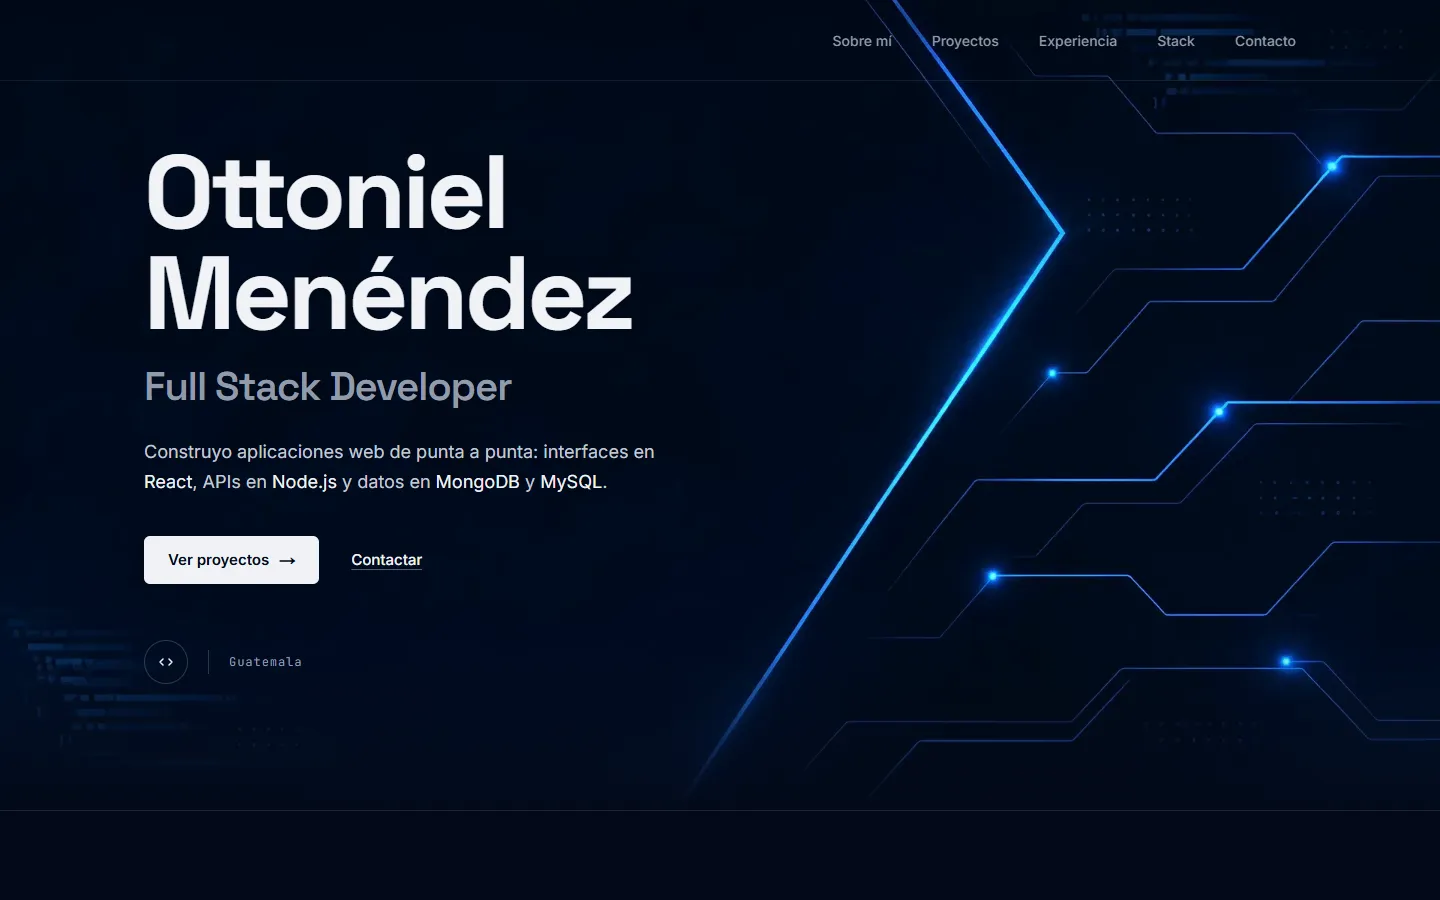
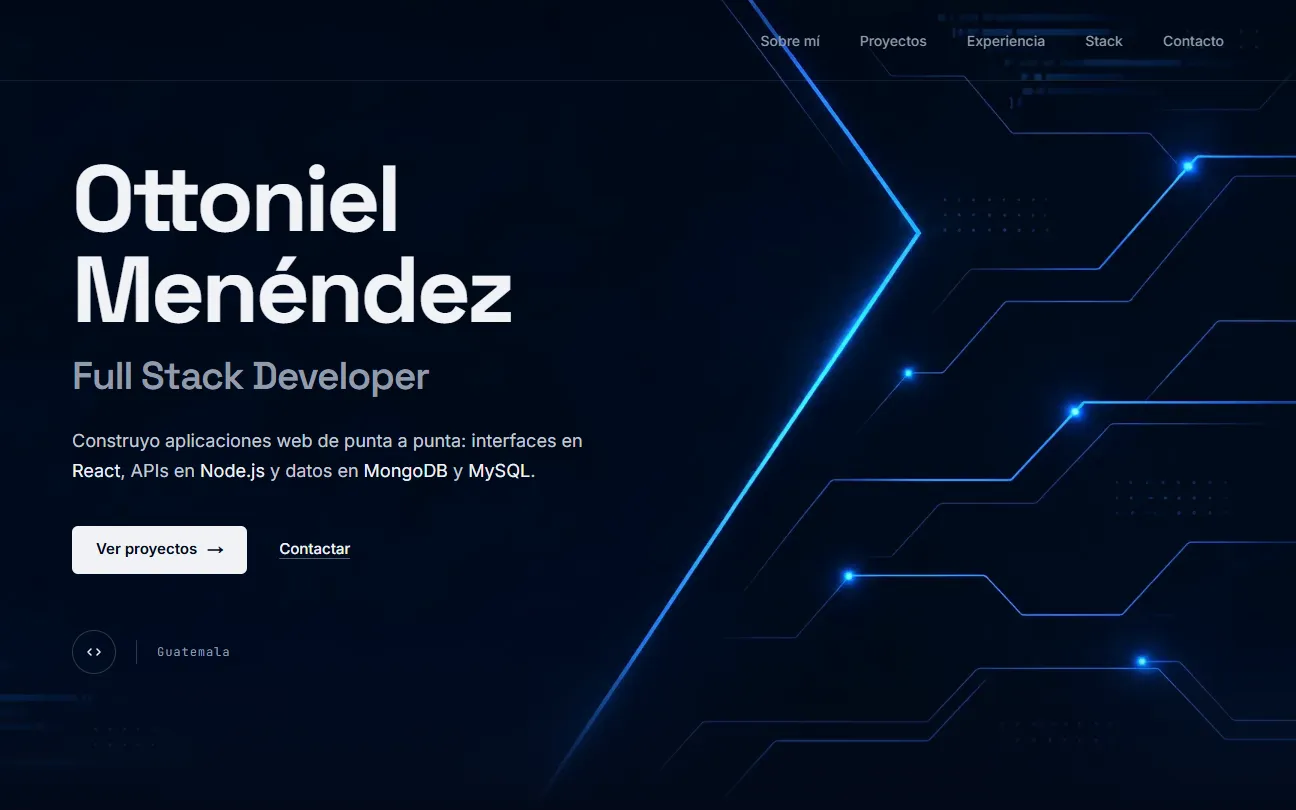
feat: agregar enlace para saltar al contenido y recapturar el hero a 1296×810

diff --git a/src/components/Nav.tsx b/src/components/Nav.tsx
@@ -1,32 +1,41 @@
-import { name, navLinks } from "@/content/site";
+import { name, navLinks, skipLink } from "@/content/site";
 import MobileMenu from "./MobileMenu";
 import NavBrand from "./NavBrand";
 
 // `overHero`: la página empieza con el hero bajo la barra (la home). En la 404 va sin él y el nombre se ve siempre.
 export default function Nav({ overHero = false }: { overHero?: boolean }) {
   return (
-    <header
-      data-over-hero={overHero || undefined}
-      className="fixed inset-x-0 top-0 z-50 border-b border-white/8 bg-bg transition-colors duration-200 over-hero:bg-transparent motion-reduce:transition-none"
-    >
-      <div className="site-container flex h-16 items-center justify-between md:h-20">
-        <NavBrand name={name} />
-        <nav aria-label="Principal" className="hidden md:block">
-          <ul className="flex gap-10">
-            {navLinks.map((link) => (
-              <li key={link.href}>
-                <a
-                  href={link.href}
-                  className="tap-target text-sm font-medium text-text-muted transition-colors duration-200 hover:text-text motion-reduce:transition-none"
-                >
-                  {link.label}
-                </a>
-              </li>
-            ))}
-          </ul>
-        </nav>
-        <MobileMenu />
-      </div>
-    </header>
+    <>
+      {/* Primer elemento enfocable: fuera de pantalla hasta recibir foco; entonces queda sobre la barra. */}
+      <a
+        href={skipLink.href}
+        className="fixed top-4 left-4 z-60 -translate-y-[200%] rounded-[6px] bg-text px-5 py-3 text-[15px] font-semibold text-bg focus:translate-y-0"
+      >
+        {skipLink.label}
+      </a>
+      <header
+        data-over-hero={overHero || undefined}
+        className="fixed inset-x-0 top-0 z-50 border-b border-white/8 bg-bg transition-colors duration-200 over-hero:bg-transparent motion-reduce:transition-none"
+      >
+        <div className="site-container flex h-16 items-center justify-between md:h-20">
+          <NavBrand name={name} />
+          <nav aria-label="Principal" className="hidden md:block">
+            <ul className="flex gap-10">
+              {navLinks.map((link) => (
+                <li key={link.href}>
+                  <a
+                    href={link.href}
+                    className="tap-target text-sm font-medium text-text-muted transition-colors duration-200 hover:text-text motion-reduce:transition-none"
+                  >
+                    {link.label}
+                  </a>
+                </li>
+              ))}
+            </ul>
+          </nav>
+          <MobileMenu />
+        </div>
+      </header>
+    </>
   );
 }

diff --git a/src/app/not-found.tsx b/src/app/not-found.tsx
@@ -28,7 +28,7 @@ export default function NotFound() {
           className="absolute inset-0 -z-10 bg-linear-to-b from-bg/50 via-bg/75 via-45% to-bg to-75% md:bg-linear-to-r md:from-bg md:from-30% md:via-bg/60 md:via-65% md:to-bg/20 md:to-100%"
         />
 
-        <main className="site-container flex flex-1 flex-col justify-end pt-10 pb-12 md:justify-center md:pt-[72px] md:pb-24">
+        <main id="contenido" tabIndex={-1} className="site-container outline-none flex flex-1 flex-col justify-end pt-10 pb-12 md:justify-center md:pt-[72px] md:pb-24">
           <p
             aria-hidden="true"
             className="text-outline font-display text-[132px] leading-[0.8] font-semibold tracking-[-0.04em] md:text-[clamp(140px,17vw,240px)]"

diff --git a/src/content/site.ts b/src/content/site.ts
@@ -14,6 +14,9 @@ export const social = {
   email: "ottonielm64@gmail.com",
 };
 
+// El destino es el <main> de cada página.
+export const skipLink = { label: "Saltar al contenido", href: "#contenido" };
+
 export const navLinks = [
   { label: "Sobre mí", href: "/#sobre-mi" },
   { label: "Proyectos", href: "/#proyectos" },

diff --git a/src/app/page.tsx b/src/app/page.tsx
@@ -11,7 +11,7 @@ export default function Home() {
   return (
     <>
       <Nav overHero />
-      <main>
+      <main id="contenido" tabIndex={-1} className="outline-none">
         <Hero />
         <About />
         <Projects />

diff --git a/docs/diseno.md b/docs/diseno.md
@@ -153,7 +153,7 @@ Estructura de cada fila (≥ 1024 px): dos columnas, medio a la izquierda (≈ 5
 
 **Columna de medio:**
 - Echo: el tráiler vertical (4:5) dentro del marco 16:10 con fondo `#000` y `object-fit: contain`. El fondo del juego es negro, así que las franjas laterales no se notan. `<video muted loop playsinline preload="none" poster="echo_poster.webp">` con `echo_preview.mp4`. Se reproduce solo mientras está en pantalla (IntersectionObserver) y se pausa al salir; con `prefers-reduced-motion: reduce` se queda en el póster. Sin controles ni sonido; el video es decorativo (`aria-hidden="true"`) porque el texto de la fila ya lo describe. En móvil, el marco pasa a 4:5 y el video ocupa todo el ancho.
-- Este portafolio: miniatura 16:10, radio 6, borde `line`, con la captura del hero del sitio construido (`portafolio.webp`, 1440 × 900; ver "Assets").
+- Este portafolio: miniatura 16:10, radio 6, borde `line`, con la captura del hero del sitio construido (`portafolio.webp`, 1296 × 810; ver "Assets").
 - En ambos, una etiqueta mono arriba a la izquierda sobre fondo `rgba(3,10,26,.85)`, radio 3, p. ej. "01 / ECHO".
 - Casos: caja con borde `line` y fondo `rgba(255,255,255,.02)` (único "contenedor" permitido) con el diagrama centrado, padding 56 px 48 px, alto mínimo 420 px, etiqueta superior "03 / PORTAL 360" y al pie "Diagrama simplificado, sin datos del cliente" en mono 10 px mayúsculas `text-muted`.
 
@@ -185,6 +185,7 @@ HTML y CSS, no imágenes (accesibles y editables).
 - Un solo `h1`. HTML semántico: `header`, `nav`, `section` con `id`, `article`, `dl`.
 - Foco visible: contorno blanco de 2 px con desplazamiento de 4 px en enlaces y botones.
 - Áreas táctiles de al menos 44 px (botón circular, hamburguesa) y 48 px en botones de texto. Los enlaces de texto (nav, pie, menú móvil, "↗") amplían su área de toque a 44 px con un pseudoelemento invisible, sin cambiar su caja ni su aspecto.
+- Enlace "Saltar al contenido": primer elemento enfocable de la página (antes de la nav), con destino el `main` (`id="contenido"`, `tabIndex={-1}` para que reciba el foco). Oculto hasta recibir foco; con foco aparece arriba a la izquierda, fijo a 16 px del borde, por encima de la nav (`z-index` mayor), con el estilo del botón primario (fondo `text`, texto `bg`, radio 6, Inter 15 px peso 600, padding `12px 20px`) y el contorno de foco blanco de 2 px con 4 px de separación. También en la 404.
 - Iconos decorativos con `aria-hidden="true"`. La foto lleva `alt` ("Retrato de Ottoniel Menéndez"); las miniaturas decorativas, `alt=""`.
 - Movimiento: solo las transiciones de hover (≤ 250 ms), el video del hero y el tráiler de Echo; los dos videos respetan `prefers-reduced-motion`.
 - Los números grandes de proyecto son decorativos (`aria-hidden="true"`).
@@ -199,12 +200,12 @@ HTML y CSS, no imágenes (accesibles y editables).
 | `echo.webp` | Versión 16:10 del póster (1600×1000) para usos estáticos, como una futura imagen `og` del proyecto |
 | `cover.webp` | Respaldo para un proyecto nuevo sin captura |
 | `bg.webp` | Sin uso en esta versión; se conserva en el repo por si hace falta |
-| `portafolio.webp` | Captura del hero para la fila "Este portafolio" (1440×900) |
+| `portafolio.webp` | Captura del hero para la fila "Este portafolio" (1296×810, 16:10) |
 | `og.jpg` | Imagen para redes de 1200×630: fondo `hero_poster.webp`, nombre y cargo en Space Grotesk, sin la palabra "Portafolio". JPG estático: `opengraph-image` de Next no pinta el fondo WebP y exporta el archivo sin extensión |
 
 **Imagen `og` (1200 × 630):** fondo `hero_poster.webp` a cubrir, `object-position: right center`, con un degradado de izquierda a derecha de `bg` (hasta el 35 %) a `rgba(3,10,26,.2)`. Contenido alineado a la izquierda, a 72 px del borde y 72 px del borde inferior, anclado abajo: "Ottoniel Menéndez" en Space Grotesk 700, 96 px, `line-height` 1, tracking −.035em, color `text`; debajo, a 20 px, "Full Stack Developer" en Space Grotesk 500, 40 px, color `text-body`. Sin logos, sin la palabra "Portafolio", sin URL y sin adornos. (Esta composición la define el diseño; si el resultado no convence, se ajusta en la revisión del PR.)
 
-**Captura "Este portafolio" (`public/portafolio.webp`, 1440 × 900):** el hero del sitio construido (`npx serve out`) a 1440 px de ancho, 16:10, con `prefers-reduced-motion: reduce` emulado (se ve el póster, sin video), `scrollY = 0` y la nav en su estado sobre el hero (nombre oculto). WebP calidad ~80, idealmente < 150 KB. En `portafolio.mdx`, `width: 1440` y `height: 900`, y se quita el comentario de "mientras no haya captura".
+**Captura "Este portafolio" (`public/portafolio.webp`, 1296 × 810):** solo el hero del sitio construido (`npx serve out`), con la ventana de 1296 × 810 px: el hero mide 810 px de alto mínimo, así que esa ventana da exactamente 16:10 sin que asome la sección siguiente, con `prefers-reduced-motion: reduce` emulado (se ve el póster, sin video), `scrollY = 0` y la nav en su estado sobre el hero (nombre oculto). WebP calidad ~80, idealmente < 150 KB. En `portafolio.mdx`, `width: 1296` y `height: 810`, y se quita el comentario de "mientras no haya captura".
 
 Todo formato nuevo en WebP, salvo `og`.
 

diff --git a/docs/contenido.md b/docs/contenido.md
@@ -143,6 +143,10 @@ Criterio: solo lo que respalda el perfil (React/JavaScript, trabajo en equipo co
 - Sin CV descargable por ahora.
 - Pie: © {año} Ottoniel Menéndez · GitHub · LinkedIn · Volver arriba ↑ (el año se calcula al hacer el build).
 
+## Accesibilidad
+
+- Enlace para saltar la navegación: `Saltar al contenido` (a `#contenido`, el `main`). Solo se ve con el foco del teclado.
+
 ## Página 404
 
 - Número decorativo: 404
